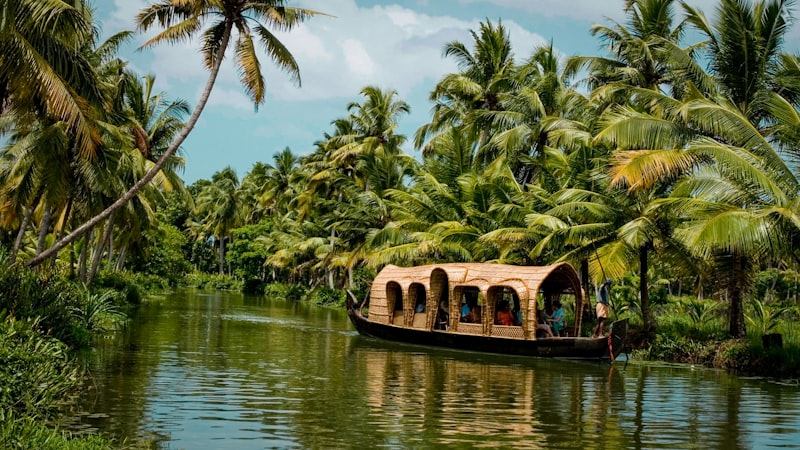
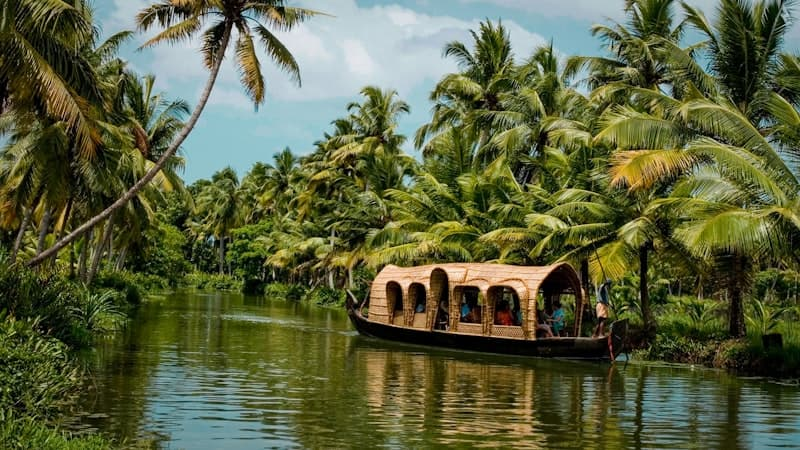
refactor: update image file extensions from png to jpg
Converted all asset references to .jpg format to improve performance through reduced file sizes and optimized web delivery.

diff --git a/src/app/kerala-family/data/tourData.ts b/src/app/kerala-family/data/tourData.ts
@@ -31,7 +31,7 @@ export const PACKAGES: PackageItem[] = [
     locations: ["Munnar (2N)", "Thekkady (1N)", "Alleppey Houseboat (1N)", "Kovalam (2N)", "Kanyakumari (1N)"],
     price: 24499,
     originalPrice: 30999,
-    image: "/images/7n8d%20family%20card.png",
+    image: "/images/7n8d%20family%20card.jpg",
     highlights: [
       "2 Nights Munnar Tea Gardens & Waterfalls",
       "1 Night Thekkady Wildlife Sanctuary & Spices",
@@ -68,7 +68,7 @@ export const PACKAGES: PackageItem[] = [
     price: 22999,
     originalPrice: 28999,
     isPopular: true,
-    image: "/images/6n7d%20beach%20card%20pic.png",
+    image: "/images/6n7d%20beach%20card%20pic.jpg",
     highlights: [
       "Comprehensive God's Own Country tour",
       "2 Nights Munnar Hill station & Tea Museum",
@@ -104,7 +104,7 @@ export const PACKAGES: PackageItem[] = [
     locations: ["Munnar (2N)", "Alleppey Houseboat (1N)", "Varkala (1N)", "Kovalam (2N)"],
     price: 23499,
     originalPrice: 29999,
-    image: "/images/6n7d%20varkala%20family%20pic.png",
+    image: "/images/6n7d%20varkala%20family%20pic.jpg",
     highlights: [
       "2 Nights in scenic Munnar Tea Hills & Waterfalls",
       "1 Night Alleppey Deluxe Private Houseboat with All Meals",
@@ -139,7 +139,7 @@ export const PACKAGES: PackageItem[] = [
     locations: ["Munnar (2N)", "Alleppey Houseboat (1N)", "Kovalam (2N)"],
     price: 20999,
     originalPrice: 26999,
-    image: "/images/5n6d%20family%20package%20card.png",
+    image: "/images/5n6d%20family%20package%20card.jpg",
     highlights: [
       "2 Nights in lush Munnar Tea Gardens & Waterfalls",
       "1 Night Traditional Alleppey Deluxe Houseboat Stay with meals",
@@ -174,7 +174,7 @@ export const PACKAGES: PackageItem[] = [
     locations: ["Munnar (2N)", "Thekkady (1N)", "Alleppey (1N)"],
     price: 15999,
     originalPrice: 19999,
-    image: "/images/4n5d%20family%20card.png",
+    image: "/images/4n5d%20family%20card.jpg",
     highlights: [
       "2 Nights in scenic Munnar Hill Station",
       "Periyar Wildlife Sanctuary in Thekkady",
@@ -210,7 +210,7 @@ export const PACKAGES: PackageItem[] = [
     locations: ["Munnar (2N)", "Thekkady (1N)", "Alleppey (1N)", "Kovalam (2N)"],
     price: 23499,
     originalPrice: 29999,
-    image: "/images/family%20immage%20crdd.png",
+    image: "/images/family%20immage%20crdd.jpg",
     imagePosition: "center 12%",
     highlights: [
       "Dedicated Private AC Innova Cab for Whole Family",

diff --git a/src/app/kerala-senior/data/tourData.ts b/src/app/kerala-senior/data/tourData.ts
@@ -29,7 +29,7 @@ export const PACKAGES: PackageItem[] = [
     locations: ["Munnar (2N)", "Thekkady (1N)", "Alleppey (1N)"],
     price: 15999,
     originalPrice: 19999,
-    image: "/images/4n5d%20senior%20card.png",
+    image: "/images/4n5d%20senior%20card.jpg",
     highlights: [
       "2 Nights in scenic Munnar Hill Station",
       "Periyar Wildlife Sanctuary in Thekkady",
@@ -64,7 +64,7 @@ export const PACKAGES: PackageItem[] = [
     locations: ["Munnar (2N)", "Alleppey Houseboat (1N)", "Kovalam (2N)"],
     price: 20999,
     originalPrice: 26999,
-    image: "/images/5n6d%20senior%20card.png",
+    image: "/images/5n6d%20senior%20card.jpg",
     highlights: [
       "2 Nights in lush Munnar Tea Gardens & Waterfalls",
       "1 Night Traditional Alleppey Deluxe Houseboat Stay with meals",
@@ -101,7 +101,7 @@ export const PACKAGES: PackageItem[] = [
     price: 22999,
     originalPrice: 28999,
     isPopular: true,
-    image: "/images/6n7d%20card%20image%20senior.png",
+    image: "/images/6n7d%20card%20image%20senior.jpg",
     highlights: [
       "Comprehensive God's Own Country tour",
       "2 Nights Munnar Hill station & Tea Museum",
@@ -136,7 +136,7 @@ export const PACKAGES: PackageItem[] = [
     locations: ["Munnar (2N)", "Alleppey Houseboat (1N)", "Kovalam (2N)"],
     price: 21499,
     originalPrice: 27499,
-    image: "/images/senor%20couple%20jatayu.png",
+    image: "/images/senor%20couple%20jatayu.jpg",
     highlights: [
       "Private Deluxe Houseboat Cruise with Authentic Meals",
       "Peaceful Valley Resort Stay in Munnar",
@@ -172,7 +172,7 @@ export const PACKAGES: PackageItem[] = [
     locations: ["Munnar (2N)", "Thekkady (1N)", "Alleppey (1N)", "Kovalam (2N)"],
     price: 23499,
     originalPrice: 29999,
-    image: "/images/senior%20group%20card.png",
+    image: "/images/senior%20group%20card.jpg",
     highlights: [
       "Dedicated Private AC Innova Cab for Comfort & Group Travel",
       "Periyar Lake Wildlife Boating with Seated Views",
@@ -209,7 +209,7 @@ export const PACKAGES: PackageItem[] = [
     locations: ["Cochin (1N)", "Munnar (2N)", "Thekkady (1N)", "Alleppey Houseboat (1N)", "Kovalam (2N)"],
     price: 24499,
     originalPrice: 30999,
-    image: "/images/7n8d%20senior%20card.png",
+    image: "/images/7n8d%20senior%20card.jpg",
     highlights: [
       "1 Night Cochin Heritage & Marine Drive",
       "2 Nights Munnar Tea Gardens & Waterfalls",

diff --git a/src/app/kerala-honeymoon/data/tourData.ts b/src/app/kerala-honeymoon/data/tourData.ts
@@ -29,7 +29,7 @@ export const PACKAGES: PackageItem[] = [
     locations: ["Munnar (2N)", "Thekkady (1N)", "Alleppey (1N)"],
     price: 15999,
     originalPrice: 19999,
-    image: "/images/4n5d%20honeymoon%20pic.png",
+    image: "/images/4n5d%20honeymoon%20pic.jpg",
     highlights: [
       "2 Nights in scenic Munnar Hill Station",
       "Periyar Wildlife Sanctuary in Thekkady",
@@ -64,7 +64,7 @@ export const PACKAGES: PackageItem[] = [
     locations: ["Munnar (2N)", "Alleppey Houseboat (1N)", "Kovalam (2N)"],
     price: 20999,
     originalPrice: 26999,
-    image: "/images/5n6d%20honeymoon%20card.png",
+    image: "/images/5n6d%20honeymoon%20card.jpg",
     highlights: [
       "2 Nights in lush Munnar Tea Gardens & Waterfalls",
       "1 Night Traditional Alleppey Deluxe Houseboat Stay with meals",
@@ -101,7 +101,7 @@ export const PACKAGES: PackageItem[] = [
     price: 22999,
     originalPrice: 28999,
     isPopular: true,
-    image: "/images/6n7d%20honeymoon%20card.png",
+    image: "/images/6n7d%20honeymoon%20card.jpg",
     highlights: [
       "Comprehensive God's Own Country tour",
       "2 Nights Munnar Hill station & Tea Museum",
@@ -136,7 +136,7 @@ export const PACKAGES: PackageItem[] = [
     locations: ["Munnar (2N)", "Alleppey Houseboat (1N)", "Kovalam (2N)"],
     price: 21499,
     originalPrice: 27499,
-    image: "/images/honeymoon%20card%20image.png",
+    image: "/images/honeymoon%20card%20image.jpg",
     imagePosition: "center 25%",
     highlights: [
       "Private Deluxe Houseboat Cruise with Candlelight Dinner",
@@ -173,7 +173,7 @@ export const PACKAGES: PackageItem[] = [
     locations: ["Munnar (2N)", "Thekkady (1N)", "Alleppey (1N)", "Kovalam (2N)"],
     price: 23499,
     originalPrice: 29999,
-    image: "/images/hhneymon%20clad.png",
+    image: "/images/hhneymon%20clad.jpg",
     imagePosition: "center 12%",
     highlights: [
       "Dedicated Private AC Innova Cab for Whole Family",
@@ -211,7 +211,7 @@ export const PACKAGES: PackageItem[] = [
     locations: ["Cochin (1N)", "Munnar (2N)", "Thekkady (1N)", "Alleppey Houseboat (1N)", "Kovalam (2N)"],
     price: 24499,
     originalPrice: 30999,
-    image: "/images/7n8d%20honeymoon%20card.png",
+    image: "/images/7n8d%20honeymoon%20card.jpg",
     highlights: [
       "1 Night Cochin Heritage & Marine Drive",
       "2 Nights Munnar Tea Gardens & Waterfalls",

diff --git a/src/app/kerala/components/KeralaTravelStyleSection.tsx b/src/app/kerala/components/KeralaTravelStyleSection.tsx
@@ -19,7 +19,7 @@ export const KeralaTravelStyleSection: React.FC = () => {
       subtitle: 'Romantic candlelit cruises & secluded hill station retreats',
       href: '/kerala/kerala-honeymoon-tour-packages',
       icon: <Heart className="w-5 h-5 text-white fill-white" />,
-      image: '/images/725f2b11-0681-454f-889c-a4f9966cc350.png',
+      image: '/images/725f2b11-0681-454f-889c-a4f9966cc350.jpg',
     },
     {
       id: 'family',
@@ -27,7 +27,7 @@ export const KeralaTravelStyleSection: React.FC = () => {
       subtitle: 'Spacious stays, private houseboats & multi-generational fun',
       href: '/kerala/kerala-family-holiday-tour-packages',
       icon: <Users className="w-5 h-5 text-white" />,
-      image: '/images/kk.png',
+      image: '/images/kk.jpg',
     },
     {
       id: 'senior',
@@ -35,7 +35,7 @@ export const KeralaTravelStyleSection: React.FC = () => {
       subtitle: 'Comfortable gentle-paced itineraries & caring ground support',
       href: '/kerala/kerala-senior-citizen-tour-packages',
       icon: <Crown className="w-5 h-5 text-white" />,
-      image: '/images/chat.png',
+      image: '/images/chat.jpg',
     },
     {
       id: 'group',
@@ -43,7 +43,7 @@ export const KeralaTravelStyleSection: React.FC = () => {
       subtitle: 'Seamless private coaches, bonding activities & group discounts',
       href: '/kerala/kerala-group-tour-packages',
       icon: <Briefcase className="w-5 h-5 text-white" />,
-      image: '/images/chatt.png',
+      image: '/images/chatt.jpg',
     },
     {
       id: 'luxury',
@@ -51,7 +51,7 @@ export const KeralaTravelStyleSection: React.FC = () => {
       subtitle: 'Where every journey becomes an extraordinary 5-star experience',
       href: '/kerala/kerala-luxury-holiday-tour-packages',
       icon: <Mountain className="w-5 h-5 text-white" />,
-      image: '/images/hehe.png',
+      image: '/images/hehe.jpg',
     },
     {
       id: 'educational',
@@ -59,7 +59,7 @@ export const KeralaTravelStyleSection: React.FC = () => {
       subtitle: 'Where learning meets adventure with safety and expert guides',
       href: '/kerala/kerala-school-college-tour-packages',
       icon: <Compass className="w-5 h-5 text-white" />,
-      image: '/images/uuu.png',
+      image: '/images/uuu.jpg',
     },
   ];
 

diff --git a/src/components/HolidayCategoriesSection.tsx b/src/components/HolidayCategoriesSection.tsx
@@ -27,42 +27,42 @@ export const HolidayCategoriesSection: React.FC<HolidayCategoriesSectionProps> =
       title: 'Romantic & Honeymoon',
       subtitle: 'Secluded retreats & candlelit cruises',
       icon: <Heart className="w-5 h-5 text-white fill-white" />,
-      image: '/images/725f2b11-0681-454f-889c-a4f9966cc350.png',
+      image: '/images/725f2b11-0681-454f-889c-a4f9966cc350.jpg',
     },
     {
       id: 'family',
       title: 'Family Holiday Escapes',
       subtitle: 'Spacious stays & multi-generational fun',
       icon: <Users className="w-5 h-5 text-white" />,
-      image: '/images/kk.png',
+      image: '/images/kk.jpg',
     },
     {
       id: 'group',
       title: 'Group Tours',
       subtitle: 'Seamless private coaches & group bonding',
       icon: <Briefcase className="w-5 h-5 text-white" />,
-      image: '/images/chatt.png',
+      image: '/images/chatt.jpg',
     },
     {
       id: 'senior',
       title: 'Senior Citizen Tours',
       subtitle: 'Comfortable paced itineraries & caring support',
       icon: <Crown className="w-5 h-5 text-white" />,
-      image: '/images/chat.png',
+      image: '/images/chat.jpg',
     },
     {
       id: 'adventure',
       title: 'Luxury Holidays',
       subtitle: 'Where Every Journey Becomes an Extraordinary Experience.',
       icon: <Mountain className="w-5 h-5 text-white" />,
-      image: '/images/hehe.png',
+      image: '/images/hehe.jpg',
     },
     {
       id: 'educational',
       title: 'School & College Tours',
       subtitle: 'Where Learning Meets Adventure.',
       icon: <Compass className="w-5 h-5 text-white" />,
-      image: '/images/uuu.png',
+      image: '/images/uuu.jpg',
     },
   ];
 

diff --git a/src/data/tourData.ts b/src/data/tourData.ts
@@ -137,7 +137,7 @@ export const PACKAGES: PackageItem[] = [
     locations: ["Munnar (2N)", "Alleppey Houseboat (1N)", "Kovalam (2N)"],
     price: 21499,
     originalPrice: 27499,
-    image: "/images/honeymoon%20card%20image.png",
+    image: "/images/honeymoon%20card%20image.jpg",
     imagePosition: "center 25%",
     highlights: [
       "Private Deluxe Houseboat Cruise with Candlelight Dinner",
@@ -174,7 +174,7 @@ export const PACKAGES: PackageItem[] = [
     locations: ["Munnar (2N)", "Thekkady (1N)", "Alleppey (1N)", "Kovalam (2N)"],
     price: 23499,
     originalPrice: 29999,
-    image: "/images/family%20immage%20crdd.png",
+    image: "/images/family%20immage%20crdd.jpg",
     imagePosition: "center 12%",
     highlights: [
       "Dedicated Private AC Innova Cab for Whole Family",

diff --git a/src/app/kerala-senior/components/Hero.tsx b/src/app/kerala-senior/components/Hero.tsx
@@ -30,7 +30,7 @@ export const Hero: React.FC<HeroProps> = ({ onQuoteClick, preselectedPackageId }
     <section id="hero-section" className="relative bg-neutral-950 text-white overflow-hidden font-sans">
       <div className="absolute inset-0 z-0">
         <img
-          src="/images/senior%20citizen%20tour%20hero%20image.png"
+          src="/images/senior%20citizen%20tour%20hero%20image.jpg"
           alt="Comfortable Kerala Senior Citizen Tour Packages"
           className="w-full h-full object-cover object-center"
           referrerPolicy="no-referrer"

diff --git a/src/app/kerala-family/components/Hero.tsx b/src/app/kerala-family/components/Hero.tsx
@@ -30,7 +30,7 @@ export const Hero: React.FC<HeroProps> = ({ onQuoteClick, preselectedPackageId }
     <section id="hero-section" className="relative bg-neutral-950 text-white overflow-hidden font-sans">
       <div className="absolute inset-0 z-0">
         <img
-          src="/images/family%20hero.png"
+          src="/images/family%20hero.jpg"
           alt="Kerala Family Tour Packages"
           className="w-full h-full object-cover object-center"
           referrerPolicy="no-referrer"

diff --git a/src/app/kerala-honeymoon/components/Hero.tsx b/src/app/kerala-honeymoon/components/Hero.tsx
@@ -31,7 +31,7 @@ export const Hero: React.FC<HeroProps> = ({ onQuoteClick, preselectedPackageId }
       {/* Background Hero Image */}
       <div className="absolute inset-0 z-0">
         <img
-          src="/images/honeymoon%20hero%20image.png"
+          src="/images/honeymoon%20hero%20image.jpg"
           alt="Romantic Kerala Honeymoon Tour Packages"
           className="w-full h-full object-cover object-center"
           referrerPolicy="no-referrer"
